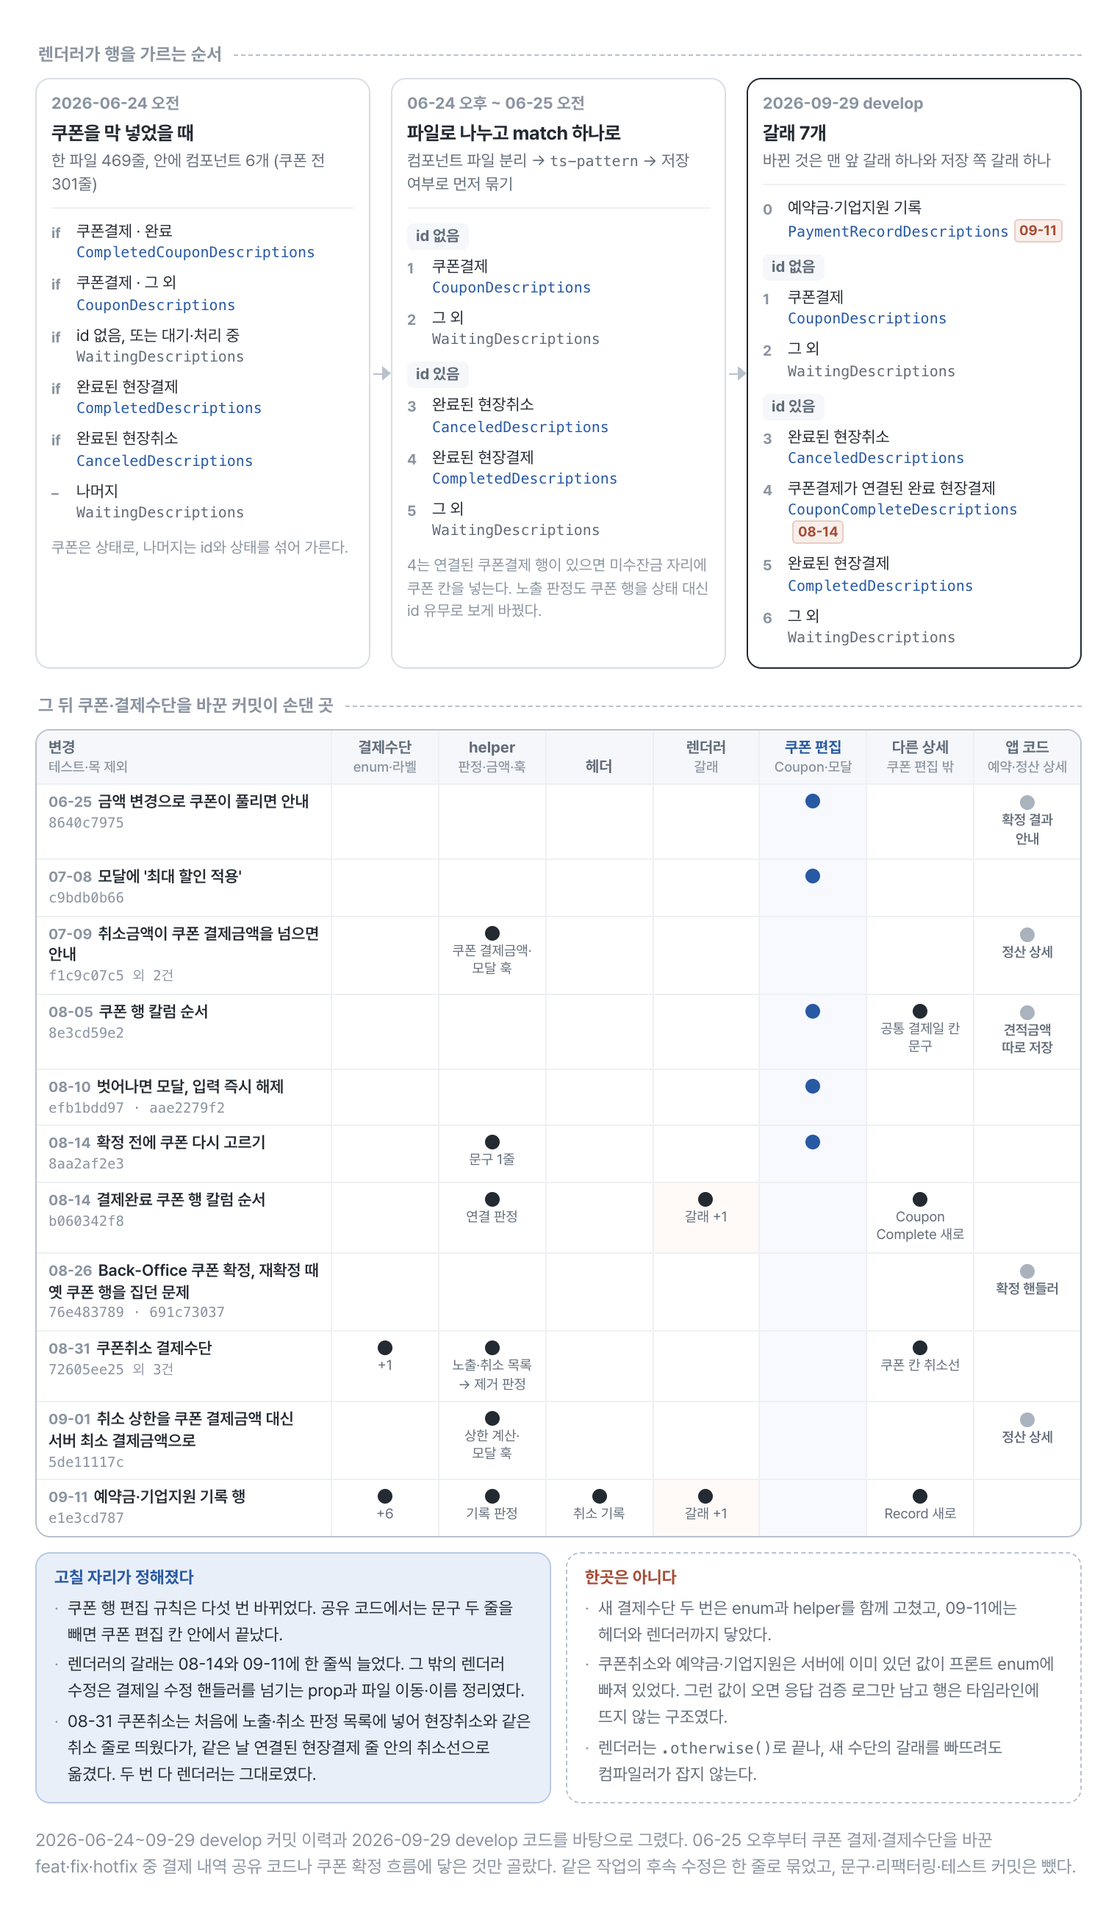
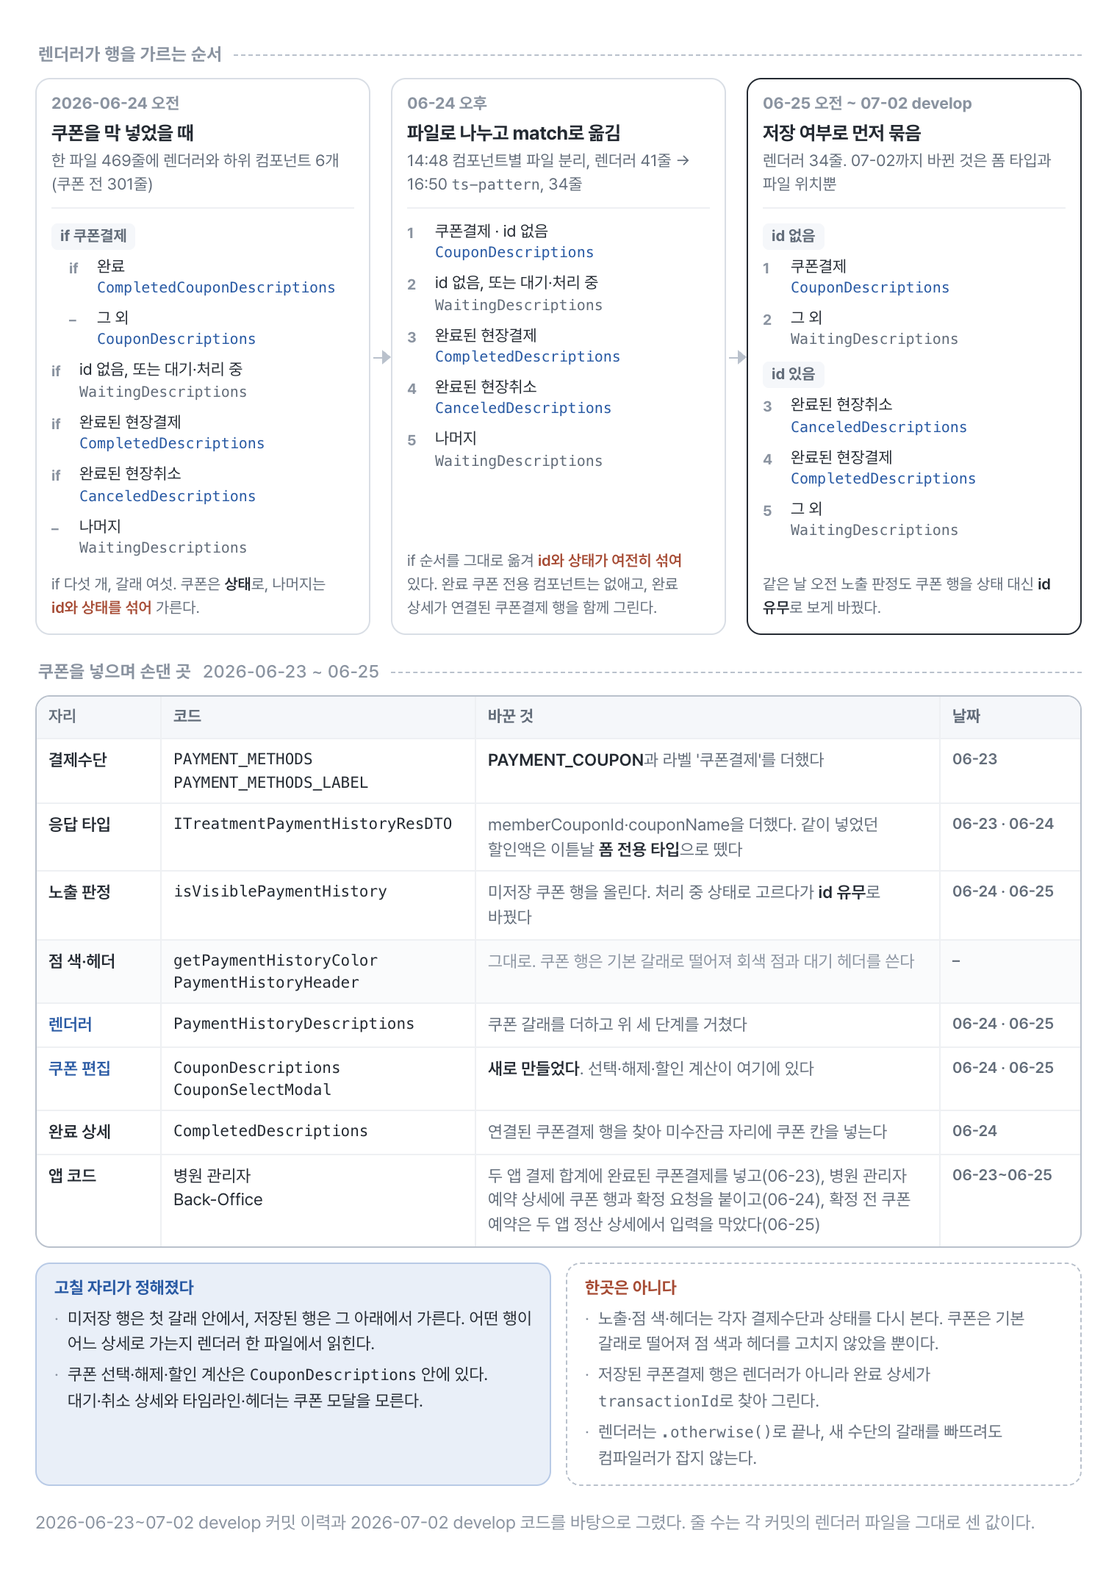
docs(blog): 렌더러 갈래 그림을 06-23~07-02 범위로 다시 구성한다

diff --git a/blog/assets/figures/payment-history/src/04-branch-history.html b/blog/assets/figures/payment-history/src/04-branch-history.html
@@ -4,50 +4,45 @@
   body { word-break: keep-all; }
   .zone { font-size: 12px; font-weight: 700; color: var(--faint); letter-spacing: 0.2px; margin: 0 0 7px 2px; display: flex; align-items: center; gap: 8px; }
   .zone::after { content: ''; flex: 1; border-top: 1px dashed var(--line-strong); }
+  .nw { white-space: nowrap; }
 
   /* 세 시점 */
   .stages { display: grid; grid-template-columns: 1fr 14px 1fr 14px 1fr; align-items: stretch; }
   .arr { position: relative; }
   .arr::before { content: ''; position: absolute; left: 2px; right: 4px; top: 50%; border-top: 1.5px solid var(--line-strong); }
   .arr::after { content: ''; position: absolute; right: 0; top: calc(50% - 5px); border-top: 5px solid transparent; border-bottom: 5px solid transparent; border-left: 6px solid var(--line-strong); }
-  .st { border: 1px solid var(--line); border-radius: 10px; padding: 9px 10px 10px; background: #fff; min-width: 0; }
+  .st { border: 1px solid var(--line); border-radius: 10px; padding: 9px 10px 10px; background: #fff; min-width: 0; display: flex; flex-direction: column; }
   .st.now { border: 1.5px solid var(--ink); }
   .st-d { font-size: 11px; font-weight: 700; color: var(--faint); }
   .st-t { font-size: 13px; font-weight: 700; letter-spacing: -0.2px; margin-top: 1px; }
   .st-s { font-size: 11px; color: var(--sub); line-height: 1.45; margin-top: 2px; }
   .st-s code { font-size: 10px; color: var(--sub); }
   .br { margin-top: 7px; border-top: 1px solid #eef0f3; padding-top: 5px; }
-  .b { display: grid; grid-template-columns: 14px 1fr; gap: 3px; padding: 3px 0; font-size: 11px; line-height: 1.4; }
+  .b { display: grid; grid-template-columns: 16px 1fr; gap: 3px; padding: 3px 0; font-size: 11px; line-height: 1.4; }
   .b > span:first-child { color: var(--faint); font-size: 10px; font-weight: 700; padding-top: 1px; }
+  .b.sub { padding-left: 12px; }
   .b .cond { color: var(--ink); }
   .b .to { display: block; font-family: 'JetBrains Mono', 'SF Mono', Menlo, monospace; font-size: 10px; color: var(--blue); overflow-wrap: anywhere; }
   .b .to.w { color: var(--sub); }
   .grp-l { font-size: 10.5px; font-weight: 700; color: var(--sub); margin: 5px 0 1px; padding: 1px 6px; background: var(--soft); border-radius: 4px; display: inline-block; }
-  .new { display: inline-block; font-size: 9.5px; font-weight: 700; color: var(--coral); background: var(--coral-soft); border: 1px solid #e8cdc4; border-radius: 3px; padding: 0 3px; margin-left: 3px; vertical-align: 1px; font-family: 'Pretendard', sans-serif; }
-  .st-n { font-size: 10.5px; color: var(--faint); line-height: 1.45; margin-top: 6px; }
+  .st-n { font-size: 10.5px; color: var(--sub); line-height: 1.5; margin-top: auto; padding-top: 7px; }
+  .st-n b { color: var(--ink); font-weight: 600; }
+  .mix { color: var(--coral); font-weight: 600; }
 
-  /* 표 */
-  .tbl { border: 1px solid var(--line-strong); border-radius: 10px; overflow: hidden; margin-top: 2px; }
-  .tr { display: grid; grid-template-columns: 200px repeat(7, minmax(0, 1fr)); border-top: 1px solid #eef0f3; }
-  .tr > div { padding: 5px 5px; font-size: 11px; border-left: 1px solid #eef0f3; min-width: 0; }
-  .tr > div:first-child { border-left: 0; padding-left: 8px; }
+  /* 손댄 곳 */
+  .tbl { border: 1px solid var(--line-strong); border-radius: 10px; overflow: hidden; }
+  .tr { display: grid; grid-template-columns: 84px 214px 1fr 96px; border-top: 1px solid #eef0f3; }
+  .tr > div { padding: 6px 8px; font-size: 11.5px; border-left: 1px solid #eef0f3; min-width: 0; line-height: 1.45; }
+  .tr > div:first-child { border-left: 0; font-weight: 600; }
   .th { border-top: 0; background: var(--soft); }
-  .th > div { font-size: 10.5px; font-weight: 700; color: var(--sub); text-align: center; line-height: 1.3; display: flex; flex-direction: column; justify-content: flex-end; }
-  .th > div:first-child { text-align: left; }
-  .th > div small { font-size: 9.5px; font-weight: 500; color: var(--faint); }
-  .th > div.hl { color: var(--blue); }
-  .ch { line-height: 1.35; }
-  .ch .dt { font-size: 10px; font-weight: 700; color: var(--faint); margin-right: 4px; }
-  .ch b { font-weight: 600; color: var(--ink); }
-  .ch small { display: block; font-size: 9.5px; color: var(--faint); font-family: 'JetBrains Mono', 'SF Mono', Menlo, monospace; }
-  .c { text-align: center; }
-  .hit { display: inline-flex; flex-direction: column; align-items: center; gap: 1px; }
-  .hit i { width: 10px; height: 10px; border-radius: 50%; background: var(--ink); }
-  .hit.cp i { background: var(--blue); }
-  .hit.app i { background: #aab2bd; }
-  .hit span { font-size: 9.5px; color: var(--sub); line-height: 1.3; text-align: center; }
-  .col-cp { background: #f7f9fe; }
-  .col-rd { background: #fffaf8; }
+  .th > div { font-size: 11px; font-weight: 700; color: var(--sub); }
+  .tr .code { font-family: 'JetBrains Mono', 'SF Mono', Menlo, monospace; font-size: 10.5px; color: var(--ink); overflow-wrap: anywhere; }
+  .tr .what { color: var(--sub); }
+  .tr .what b { color: var(--ink); font-weight: 600; }
+  .tr .dt { font-size: 10.5px; color: var(--sub); font-weight: 600; white-space: nowrap; }
+  .tr.keep > div { background: #fafbfc; }
+  .tr.keep .what { color: var(--faint); }
+  .tr.focus > div:first-child { color: var(--blue); }
 
   .notes { margin-top: 10px; display: grid; grid-template-columns: 1fr 1fr; gap: 10px; }
   .nb { border-radius: 10px; padding: 8px 12px 9px; font-size: 11.5px; line-height: 1.55; }
@@ -66,22 +61,37 @@
   <div class="st">
     <div class="st-d">2026-06-24 오전</div>
     <div class="st-t">쿠폰을 막 넣었을 때</div>
-    <p class="st-s">한 파일 469줄, 안에 컴포넌트 6개 (쿠폰 전 301줄)</p>
+    <p class="st-s">한 파일 469줄에 렌더러와 하위 컴포넌트 6개 (쿠폰 전 301줄)</p>
     <div class="br">
-      <div class="b"><span>if</span><span><span class="cond">쿠폰결제 · 완료</span><span class="to">CompletedCouponDescriptions</span></span></div>
-      <div class="b"><span>if</span><span><span class="cond">쿠폰결제 · 그 외</span><span class="to">CouponDescriptions</span></span></div>
+      <span class="grp-l">if 쿠폰결제</span>
+      <div class="b sub"><span>if</span><span><span class="cond">완료</span><span class="to">CompletedCouponDescriptions</span></span></div>
+      <div class="b sub"><span>–</span><span><span class="cond">그 외</span><span class="to">CouponDescriptions</span></span></div>
       <div class="b"><span>if</span><span><span class="cond">id 없음, 또는 대기·처리 중</span><span class="to w">WaitingDescriptions</span></span></div>
       <div class="b"><span>if</span><span><span class="cond">완료된 현장결제</span><span class="to">CompletedDescriptions</span></span></div>
       <div class="b"><span>if</span><span><span class="cond">완료된 현장취소</span><span class="to">CanceledDescriptions</span></span></div>
       <div class="b"><span>–</span><span><span class="cond">나머지</span><span class="to w">WaitingDescriptions</span></span></div>
     </div>
-    <p class="st-n">쿠폰은 상태로, 나머지는 id와 상태를 섞어 가른다.</p>
+    <p class="st-n">if 다섯 개, 갈래 여섯. 쿠폰은 <b>상태</b>로, 나머지는 <span class="mix">id와 상태를 섞어</span> 가른다.</p>
   </div>
   <div class="arr"></div>
   <div class="st">
-    <div class="st-d">06-24 오후 ~ 06-25 오전</div>
-    <div class="st-t">파일로 나누고 match 하나로</div>
-    <p class="st-s">컴포넌트 파일 분리 → <code>ts-pattern</code> → 저장 여부로 먼저 묶기</p>
+    <div class="st-d">06-24 오후</div>
+    <div class="st-t">파일로 나누고 match로 옮김</div>
+    <p class="st-s">14:48 컴포넌트별 파일 분리, 렌더러 41줄 → 16:50 <code>ts-pattern</code>, 34줄</p>
+    <div class="br">
+      <div class="b"><span>1</span><span><span class="cond">쿠폰결제 · id 없음</span><span class="to">CouponDescriptions</span></span></div>
+      <div class="b"><span>2</span><span><span class="cond">id 없음, 또는 대기·처리 중</span><span class="to w">WaitingDescriptions</span></span></div>
+      <div class="b"><span>3</span><span><span class="cond">완료된 현장결제</span><span class="to">CompletedDescriptions</span></span></div>
+      <div class="b"><span>4</span><span><span class="cond">완료된 현장취소</span><span class="to">CanceledDescriptions</span></span></div>
+      <div class="b"><span>5</span><span><span class="cond">나머지</span><span class="to w">WaitingDescriptions</span></span></div>
+    </div>
+    <p class="st-n">if 순서를 그대로 옮겨 <span class="mix">id와 상태가 여전히 섞여</span> 있다. 완료 쿠폰 전용 컴포넌트는 없애고, 완료 상세가 연결된 쿠폰결제 행을 함께 그린다.</p>
+  </div>
+  <div class="arr"></div>
+  <div class="st now">
+    <div class="st-d">06-25 오전 ~ 07-02 develop</div>
+    <div class="st-t">저장 여부로 먼저 묶음</div>
+    <p class="st-s">렌더러 34줄. 07-02까지 바뀐 것은 폼 타입과 파일 위치뿐</p>
     <div class="br">
       <span class="grp-l">id 없음</span>
       <div class="b"><span>1</span><span><span class="cond">쿠폰결제</span><span class="to">CouponDescriptions</span></span></div>
@@ -91,120 +101,44 @@
       <div class="b"><span>4</span><span><span class="cond">완료된 현장결제</span><span class="to">CompletedDescriptions</span></span></div>
       <div class="b"><span>5</span><span><span class="cond">그 외</span><span class="to w">WaitingDescriptions</span></span></div>
     </div>
-    <p class="st-n">4는 연결된 쿠폰결제 행이 있으면 미수잔금 자리에 쿠폰 칸을 넣는다. 노출 판정도 쿠폰 행을 상태 대신 id 유무로 보게 바꿨다.</p>
-  </div>
-  <div class="arr"></div>
-  <div class="st now">
-    <div class="st-d">2026-09-29 develop</div>
-    <div class="st-t">갈래 7개</div>
-    <p class="st-s">바뀐 것은 맨 앞 갈래 하나와 저장 쪽 갈래 하나</p>
-    <div class="br">
-      <div class="b"><span>0</span><span><span class="cond">예약금·기업지원 기록</span><span class="to">PaymentRecordDescriptions<span class="new">09-11</span></span></span></div>
-      <span class="grp-l">id 없음</span>
-      <div class="b"><span>1</span><span><span class="cond">쿠폰결제</span><span class="to">CouponDescriptions</span></span></div>
-      <div class="b"><span>2</span><span><span class="cond">그 외</span><span class="to w">WaitingDescriptions</span></span></div>
-      <span class="grp-l">id 있음</span>
-      <div class="b"><span>3</span><span><span class="cond">완료된 현장취소</span><span class="to">CanceledDescriptions</span></span></div>
-      <div class="b"><span>4</span><span><span class="cond">쿠폰결제가 연결된 완료 현장결제</span><span class="to">CouponCompleteDescriptions<span class="new">08-14</span></span></span></div>
-      <div class="b"><span>5</span><span><span class="cond">완료된 현장결제</span><span class="to">CompletedDescriptions</span></span></div>
-      <div class="b"><span>6</span><span><span class="cond">그 외</span><span class="to w">WaitingDescriptions</span></span></div>
-    </div>
+    <p class="st-n">같은 날 오전 노출 판정도 쿠폰 행을 상태 대신 <b>id 유무</b>로 보게 바꿨다.</p>
   </div>
 </div>
 
-<div class="zone" style="margin-top:16px">그 뒤 쿠폰·결제수단을 바꾼 커밋이 손댄 곳</div>
+<div class="zone" style="margin-top:16px">쿠폰을 넣으며 손댄 곳 <span class="nw" style="font-weight:500">2026-06-23 ~ 06-25</span></div>
 <div class="tbl">
-  <div class="tr th">
-    <div>변경<small>테스트·목 제외</small></div>
-    <div>결제수단<small>enum·라벨</small></div>
-    <div>helper<small>판정·금액·훅</small></div>
-    <div>헤더</div>
-    <div>렌더러<small>갈래</small></div>
-    <div class="hl">쿠폰 편집<small>Coupon·모달</small></div>
-    <div>다른 상세<small>쿠폰 편집 밖</small></div>
-    <div>앱 코드<small>예약·정산 상세</small></div>
-  </div>
-
+  <div class="tr th"><div>자리</div><div>코드</div><div>바꾼 것</div><div>날짜</div></div>
   <div class="tr">
-    <div class="ch"><span class="dt">06-25</span><b>금액 변경으로 쿠폰이 풀리면 안내</b><small>8640c7975</small></div>
-    <div></div><div></div><div></div><div></div>
-    <div class="c col-cp"><span class="hit cp"><i></i></span></div>
-    <div></div>
-    <div class="c"><span class="hit app"><i></i><span>확정 결과 안내</span></span></div>
+    <div>결제수단</div><div class="code">PAYMENT_METHODS<br>PAYMENT_METHODS_LABEL</div>
+    <div class="what"><b>PAYMENT_COUPON</b>과 라벨 '쿠폰결제'를 더했다</div><div class="dt">06-23</div>
   </div>
   <div class="tr">
-    <div class="ch"><span class="dt">07-08</span><b>모달에 '최대 할인 적용'</b><small>c9bdb0b66</small></div>
-    <div></div><div></div><div></div><div></div>
-    <div class="c col-cp"><span class="hit cp"><i></i></span></div>
-    <div></div><div></div>
+    <div>응답 타입</div><div class="code">ITreatmentPaymentHistoryResDTO</div>
+    <div class="what">memberCouponId·couponName을 더했다. 같이 넣었던 할인액은 이튿날 <b>폼 전용 타입</b>으로 뗐다</div><div class="dt">06-23 · 06-24</div>
   </div>
   <div class="tr">
-    <div class="ch"><span class="dt">07-09</span><b>취소금액이 쿠폰 결제금액을 넘으면 안내</b><small>f1c9c07c5 외 2건</small></div>
-    <div></div>
-    <div class="c"><span class="hit"><i></i><span>쿠폰 결제금액·모달 훅</span></span></div>
-    <div></div><div></div><div class="col-cp"></div><div></div>
-    <div class="c"><span class="hit app"><i></i><span>정산 상세</span></span></div>
+    <div>노출 판정</div><div class="code">isVisiblePaymentHistory</div>
+    <div class="what">미저장 쿠폰 행을 올린다. 처리 중 상태로 고르다가 <b>id 유무</b>로 바꿨다</div><div class="dt">06-24 · 06-25</div>
+  </div>
+  <div class="tr keep">
+    <div>점 색·헤더</div><div class="code">getPaymentHistoryColor<br>PaymentHistoryHeader</div>
+    <div class="what">그대로. 쿠폰 행은 기본 갈래로 떨어져 회색 점과 대기 헤더를 쓴다</div><div class="dt">–</div>
+  </div>
+  <div class="tr focus">
+    <div>렌더러</div><div class="code">PaymentHistoryDescriptions</div>
+    <div class="what">쿠폰 갈래를 더하고 위 세 단계를 거쳤다</div><div class="dt">06-24 · 06-25</div>
+  </div>
+  <div class="tr focus">
+    <div>쿠폰 편집</div><div class="code">CouponDescriptions<br>CouponSelectModal</div>
+    <div class="what"><b>새로 만들었다</b>. 선택·해제·할인 계산이 여기에 있다</div><div class="dt">06-24 · 06-25</div>
   </div>
   <div class="tr">
-    <div class="ch"><span class="dt">08-05</span><b>쿠폰 행 칼럼 순서</b><small>8e3cd59e2</small></div>
-    <div></div><div></div><div></div><div></div>
-    <div class="c col-cp"><span class="hit cp"><i></i></span></div>
-    <div class="c"><span class="hit"><i></i><span>공통 결제일 칸 문구</span></span></div>
-    <div class="c"><span class="hit app"><i></i><span>견적금액 따로 저장</span></span></div>
+    <div>완료 상세</div><div class="code">CompletedDescriptions</div>
+    <div class="what">연결된 쿠폰결제 행을 찾아 미수잔금 자리에 쿠폰 칸을 넣는다</div><div class="dt">06-24</div>
   </div>
   <div class="tr">
-    <div class="ch"><span class="dt">08-10</span><b>벗어나면 모달, 입력 즉시 해제</b><small>efb1bdd97 · aae2279f2</small></div>
-    <div></div><div></div><div></div><div></div>
-    <div class="c col-cp"><span class="hit cp"><i></i></span></div>
-    <div></div><div></div>
-  </div>
-  <div class="tr">
-    <div class="ch"><span class="dt">08-14</span><b>확정 전에 쿠폰 다시 고르기</b><small>8aa2af2e3</small></div>
-    <div></div>
-    <div class="c"><span class="hit"><i></i><span>문구 1줄</span></span></div>
-    <div></div><div></div>
-    <div class="c col-cp"><span class="hit cp"><i></i></span></div>
-    <div></div><div></div>
-  </div>
-  <div class="tr">
-    <div class="ch"><span class="dt">08-14</span><b>결제완료 쿠폰 행 칼럼 순서</b><small>b060342f8</small></div>
-    <div></div>
-    <div class="c"><span class="hit"><i></i><span>연결 판정</span></span></div>
-    <div></div>
-    <div class="c col-rd"><span class="hit"><i></i><span>갈래 +1</span></span></div>
-    <div class="col-cp"></div>
-    <div class="c"><span class="hit"><i></i><span>Coupon<wbr>Complete 새로</span></span></div>
-    <div></div>
-  </div>
-  <div class="tr">
-    <div class="ch"><span class="dt">08-26</span><b>Back-Office 쿠폰 확정, 재확정 때 옛 쿠폰 행을 집던 문제</b><small>76e483789 · 691c73037</small></div>
-    <div></div><div></div><div></div><div></div><div class="col-cp"></div><div></div>
-    <div class="c"><span class="hit app"><i></i><span>확정 핸들러</span></span></div>
-  </div>
-  <div class="tr">
-    <div class="ch"><span class="dt">08-31</span><b>쿠폰취소 결제수단</b><small>72605ee25 외 3건</small></div>
-    <div class="c"><span class="hit"><i></i><span>+1</span></span></div>
-    <div class="c"><span class="hit"><i></i><span>노출·취소 목록 → 제거 판정</span></span></div>
-    <div></div><div></div><div class="col-cp"></div>
-    <div class="c"><span class="hit"><i></i><span>쿠폰 칸 취소선</span></span></div>
-    <div></div>
-  </div>
-  <div class="tr">
-    <div class="ch"><span class="dt">09-01</span><b>취소 상한을 쿠폰 결제금액 대신 서버 최소 결제금액으로</b><small>5de11117c</small></div>
-    <div></div>
-    <div class="c"><span class="hit"><i></i><span>상한 계산·<br>모달 훅</span></span></div>
-    <div></div><div></div><div class="col-cp"></div><div></div>
-    <div class="c"><span class="hit app"><i></i><span>정산 상세</span></span></div>
-  </div>
-  <div class="tr">
-    <div class="ch"><span class="dt">09-11</span><b>예약금·기업지원 기록 행</b><small>e1e3cd787</small></div>
-    <div class="c"><span class="hit"><i></i><span>+6</span></span></div>
-    <div class="c"><span class="hit"><i></i><span>기록 판정</span></span></div>
-    <div class="c"><span class="hit"><i></i><span>취소 기록</span></span></div>
-    <div class="c col-rd"><span class="hit"><i></i><span>갈래 +1</span></span></div>
-    <div class="col-cp"></div>
-    <div class="c"><span class="hit"><i></i><span>Record 새로</span></span></div>
-    <div></div>
+    <div>앱 코드</div><div>병원 관리자<br>Back-Office</div>
+    <div class="what">두 앱 결제 합계에 완료된 쿠폰결제를 넣고(06-23), 병원 관리자 예약 상세에 쿠폰 행과 확정 요청을 붙이고(06-24), 확정 전 쿠폰 예약은 두 앱 정산 상세에서 입력을 막았다(06-25)</div><div class="dt">06-23~06-25</div>
   </div>
 </div>
 
@@ -212,20 +146,19 @@
   <div class="nb ok">
     <b>고칠 자리가 정해졌다</b>
     <ul>
-      <li>쿠폰 행 편집 규칙은 다섯 번 바뀌었다. 공유 코드에서는 문구 두 줄을 빼면 쿠폰 편집 칸 안에서 끝났다.</li>
-      <li>렌더러의 갈래는 08-14와 09-11에 한 줄씩 늘었다. 그 밖의 렌더러 수정은 결제일 수정 핸들러를 넘기는 prop과 파일 이동·이름 정리였다.</li>
-      <li>08-31 쿠폰취소는 처음에 노출·취소 판정 목록에 넣어 현장취소와 같은 취소 줄로 띄웠다가, 같은 날 연결된 현장결제 줄 안의 취소선으로 옮겼다. 두 번 다 렌더러는 그대로였다.</li>
+      <li>미저장 행은 첫 갈래 안에서, 저장된 행은 그 아래에서 가른다. 어떤 행이 어느 상세로 가는지 렌더러 한 파일에서 읽힌다.</li>
+      <li>쿠폰 선택·해제·할인 계산은 <code>CouponDescriptions</code> 안에 있다. <span class="nw">대기·취소</span> 상세와 타임라인·헤더는 쿠폰 모달을 모른다.</li>
     </ul>
   </div>
   <div class="nb lim">
     <b>한곳은 아니다</b>
     <ul>
-      <li>새 결제수단 두 번은 enum과 helper를 함께 고쳤고, 09-11에는 헤더와 렌더러까지 닿았다.</li>
-      <li>쿠폰취소와 예약금·기업지원은 서버에 이미 있던 값이 프론트 enum에 빠져 있었다. 그런 값이 오면 응답 검증 로그만 남고 행은 타임라인에 뜨지 않는 구조였다.</li>
+      <li>노출·점 색·헤더는 각자 결제수단과 상태를 다시 본다. 쿠폰은 기본 갈래로 떨어져 점 색과 헤더를 고치지 않았을 뿐이다.</li>
+      <li>저장된 쿠폰결제 행은 렌더러가 아니라 완료 상세가 <code>transactionId</code>로 찾아 그린다.</li>
       <li>렌더러는 <code>.otherwise()</code>로 끝나, 새 수단의 갈래를 빠뜨려도 컴파일러가 잡지 않는다.</li>
     </ul>
   </div>
 </div>
 
-<p class="foot">2026-06-24~09-29 develop 커밋 이력과 2026-09-29 develop 코드를 바탕으로 그렸다. 06-25 오후부터 쿠폰 결제·결제수단을 바꾼 feat·fix·hotfix 중 결제 내역 공유 코드나 쿠폰 확정 흐름에 닿은 것만 골랐다. 같은 작업의 후속 수정은 한 줄로 묶었고, 문구·리팩터링·테스트 커밋은 뺐다.</p>
+<p class="foot">2026-06-23~07-02 develop 커밋 이력과 2026-07-02 develop 코드를 바탕으로 그렸다. 줄 수는 각 커밋의 렌더러 파일을 그대로 센 값이다.</p>
 </body></html>
